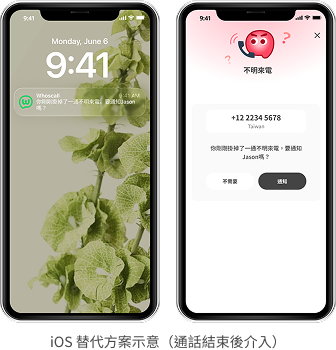
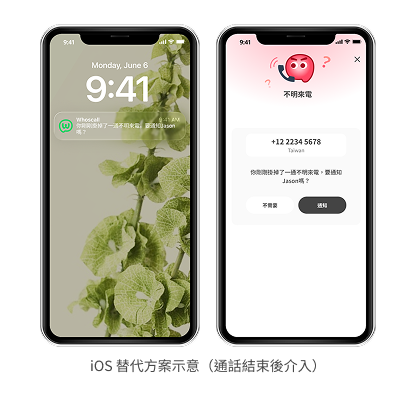
更換圖片

diff --git a/uiux/whoscall.html b/uiux/whoscall.html
@@ -561,7 +561,7 @@
                     </div>
                     <div>
                         <li class="fw-bold my-2">UI 介面</li>
-                        <img class="zoom-img" src="../wwwroot/img/whoscall/ui-design-3.png" alt="守望週報 (雙方可見)">
+                        <img class="zoom-img weekly-gif" src="../wwwroot/img/whoscall/ui-design-3.gif" alt="守望週報 (雙方可見)">
                     </div>
                 </div>
                 <div class="d-flex flex-column gap-3">

diff --git a/index.html b/index.html
@@ -158,7 +158,6 @@
     <script src="https://unpkg.com/aos@2.3.1/dist/aos.js"></script>
     
     <!-- 共用JS -->
-    <!-- <script src="../w/js/base.js"></script> -->
      <script src="wwwroot/js/base.js"></script>
     <script>
         $(".top-btnpage").load("./top-btn.html"); 

diff --git a/uiux/whoscall.css b/uiux/whoscall.css
@@ -152,6 +152,10 @@ img {
     display: flex;
     gap: 4rem;
 }
+.weekly-gif {
+    width: 32rem;
+    border-radius: 10px;
+}
 /* 所有小螢幕 */
 @media screen and (max-width: 1366px) {
     .persona-role-protector {
